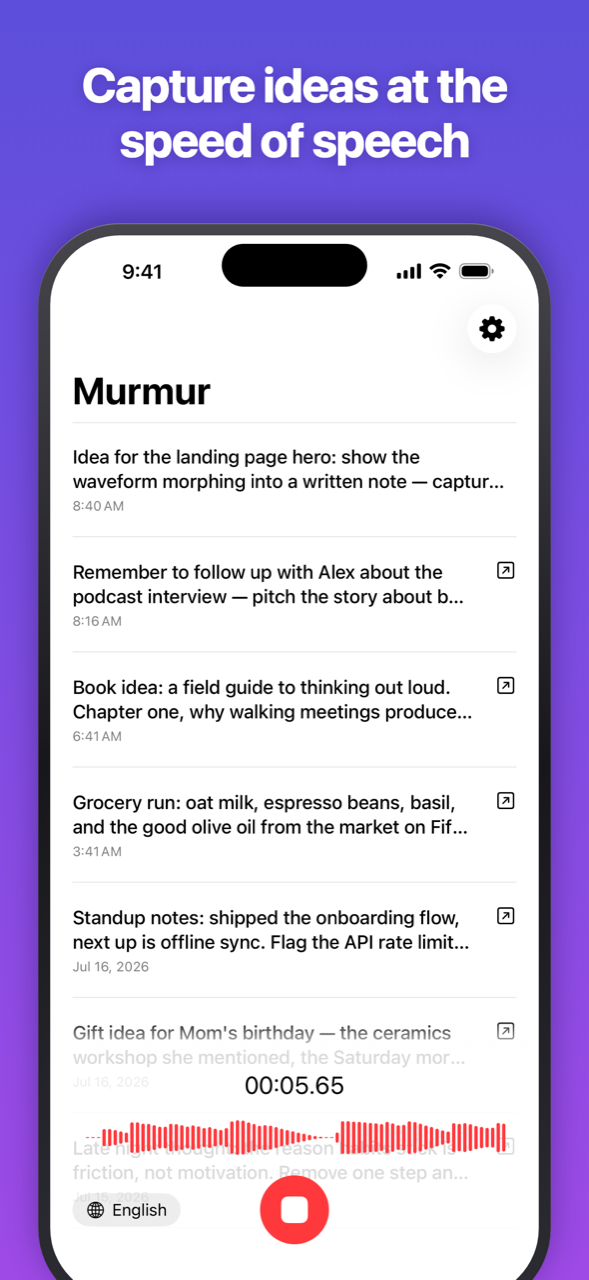
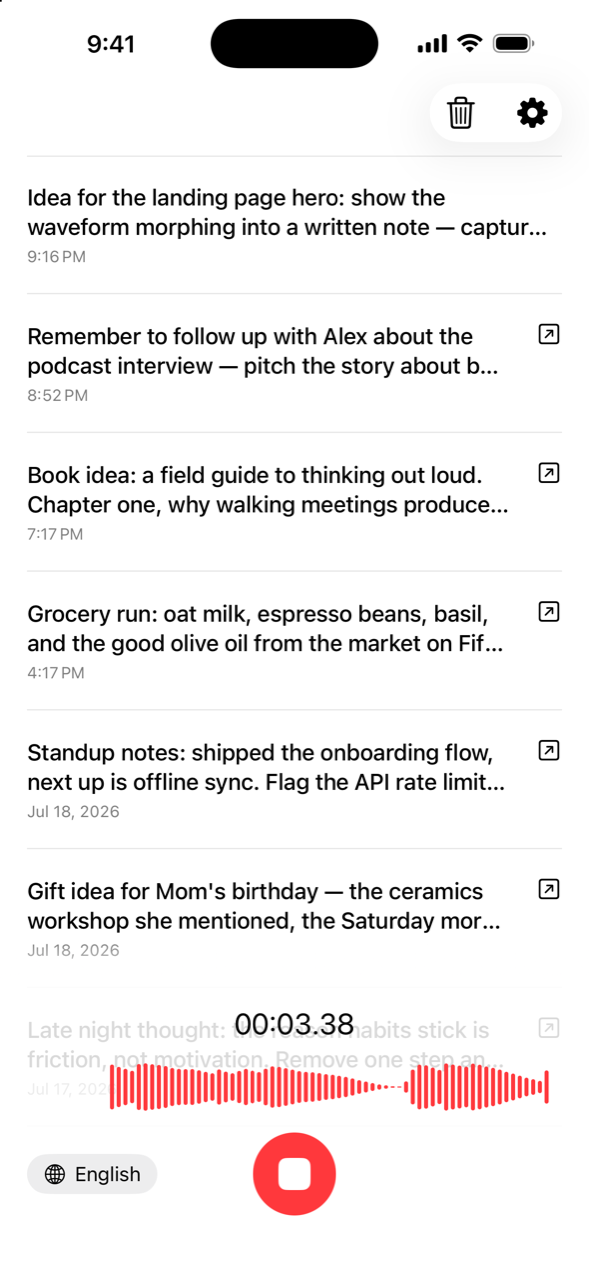
Refresh for 1.1: live App Store link, rebranded assets, graphite hero
- Hero badge now links to the App Store (shipped 2026-07-16) instead of
  "Coming soon" with href="#".
- Support address -> murmur@u-ran.com, matching BugReportMailto.swift.
- Capture copy mentions the Lock Screen and Control Center entry points
  added in #98.
- Re-exported every screenshot and the icon from the 1.1 build, which
  carries the white-ground + recording-red rebrand from #102.
- Hero gradient and shadows moved off the retired purple to the graphite
  (#26262A -> #151517) used by the App Store panels, so the white icon
  reads correctly and the site matches the store listing.

diff --git a/index.html b/index.html
@@ -12,21 +12,21 @@
 <link rel="apple-touch-icon" href="/assets/icon-360.png">
 <style>
   :root {
-    --grad-top: #5C4FDB;
-    --grad-bottom: #9E4AE6;
+    --grad-top: #26262A;
+    --grad-bottom: #151517;
     --text: #1c1c1e;
     --text-2: #55555c;
     --bg: #ffffff;
-    --card: #f5f4fa;
-    --footer-line: #e6e4f0;
+    --card: #f4f4f6;
+    --footer-line: #e5e5e8;
   }
   @media (prefers-color-scheme: dark) {
     :root {
       --text: #f2f2f7;
       --text-2: #a7a7b3;
       --bg: #000000;
-      --card: #16151c;
-      --footer-line: #26242f;
+      --card: #17171b;
+      --footer-line: #26262b;
     }
   }
   * { margin: 0; padding: 0; box-sizing: border-box; }
@@ -49,7 +49,7 @@
     width: 120px;
     height: 120px;
     border-radius: 27.5%;
-    box-shadow: 0 18px 44px rgba(20, 8, 60, 0.45);
+    box-shadow: 0 18px 44px rgba(0, 0, 0, 0.45);
   }
   .hero .name {
     margin-top: 20px;
@@ -116,7 +116,7 @@
     flex: none;
     border-radius: 22px;
     scroll-snap-align: center;
-    box-shadow: 0 12px 32px rgba(20, 8, 60, 0.18);
+    box-shadow: 0 12px 32px rgba(0, 0, 0, 0.18);
   }
 
   .watch { text-align: center; }
@@ -155,7 +155,7 @@
   <div class="name">Murmur</div>
   <h1>Capture ideas at the speed of speech</h1>
   <p class="sub">Press the Action Button, speak, done. Murmur records your voice, transcribes it on your iPhone, and syncs the audio and the text to your notes — automatically.</p>
-  <a class="badge" href="#">Coming soon to the App&nbsp;Store</a>
+  <a class="badge" href="https://apps.apple.com/app/id6788226431">Download on the App&nbsp;Store</a>
 </div>
 
 <section>
@@ -163,7 +163,7 @@
     <div class="feature">
       <div class="glyph">⚡</div>
       <h3>Zero-friction capture</h3>
-      <p>One press to record — the iPhone Action Button, your Apple Watch, or the app. Audio is written to disk first, always: you never lose an idea.</p>
+      <p>One press to record — the Action Button, the Lock Screen, Control Center, your Apple Watch, or the app. Audio is written to disk first, always: you never lose an idea.</p>
     </div>
     <div class="feature">
       <div class="glyph">🔒</div>
